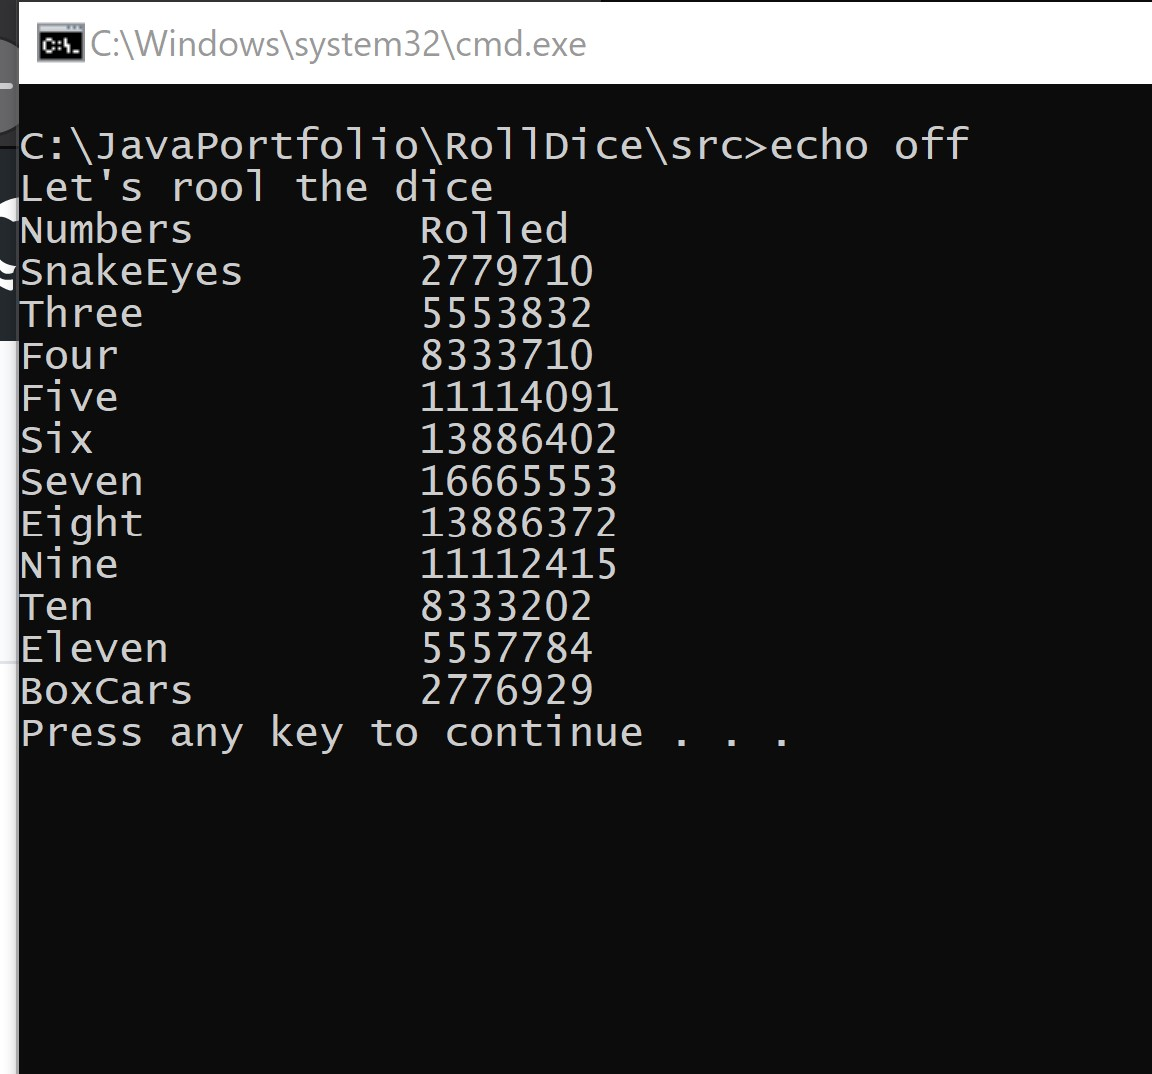
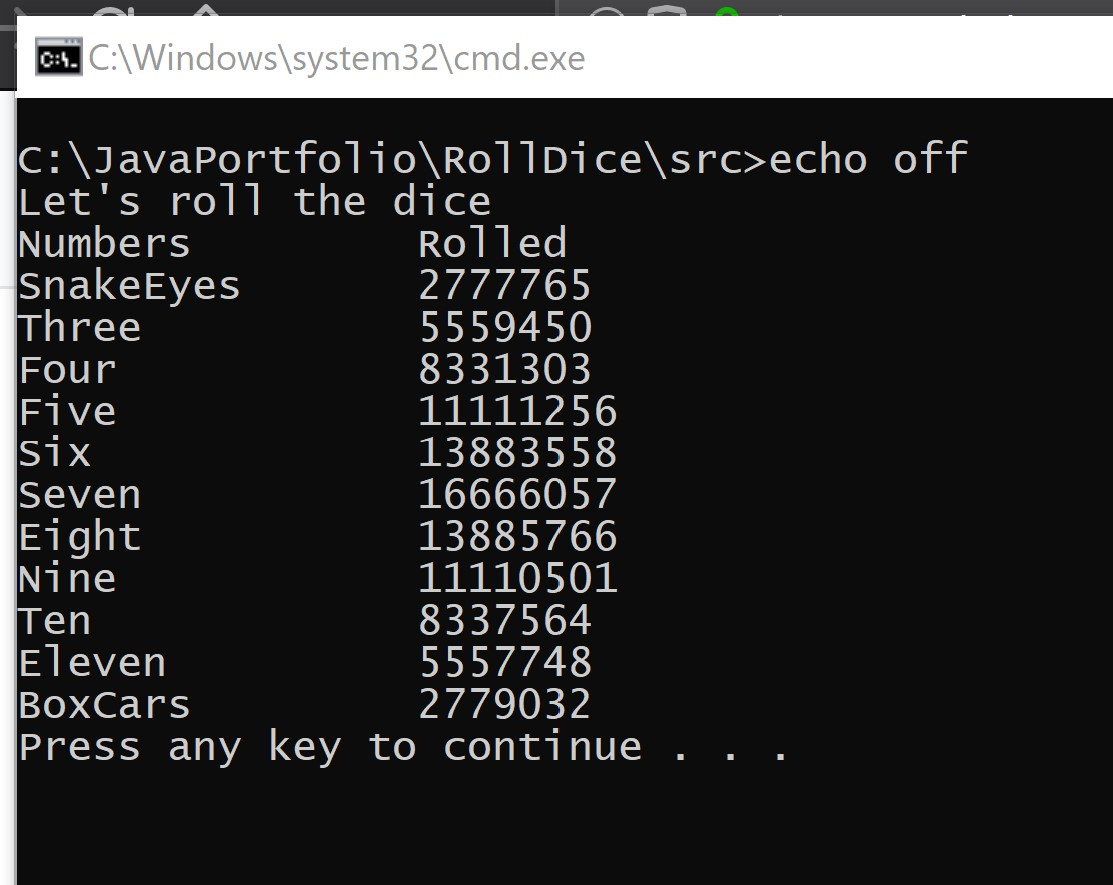
Add files via upload

Changed region(s): [[0.0, 0.0, 1.0, 1.0], [0.2444, 0.8237, 0.3055, 0.8847]]

diff --git a/RollDice/RollDice.java b/RollDice/RollDice.java
@@ -25,7 +25,7 @@ public class RollDice {
 		int Ten = 0;
 		int Eleven = 0;
 		int BoxCars = 0;
-		System.out.println("Let's rool the dice");
+		System.out.println("Let's roll the dice");
 		for (int i = 1; i <= 100000000; i++) 
 		{
 			int face1 = 1 + randomNumbers.nextInt(6);
